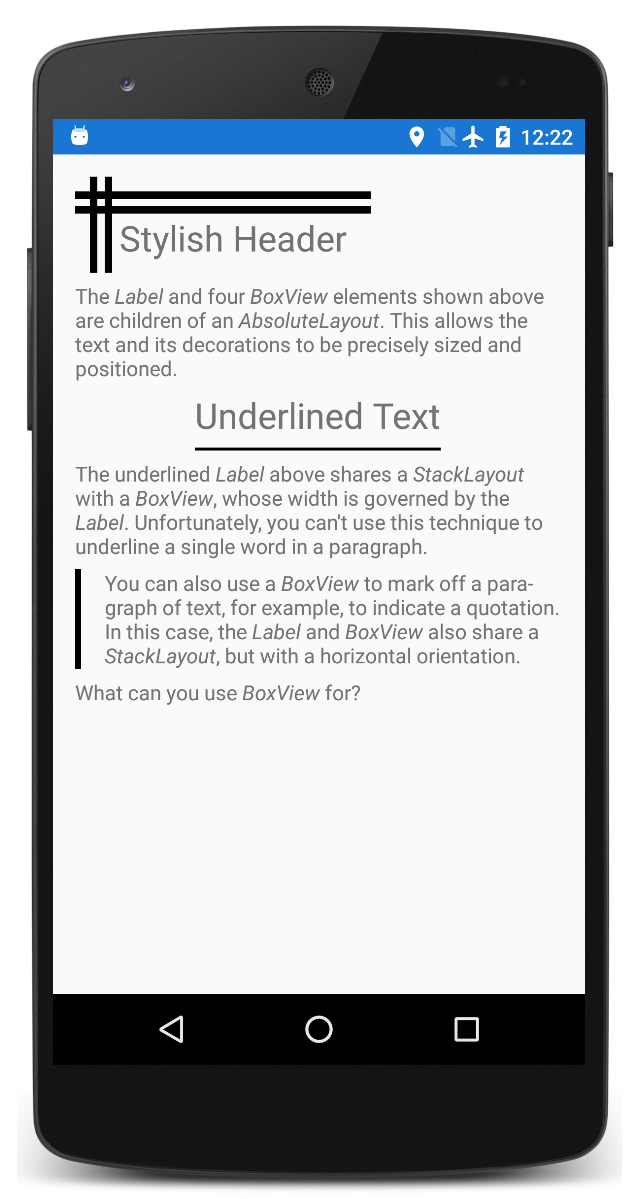
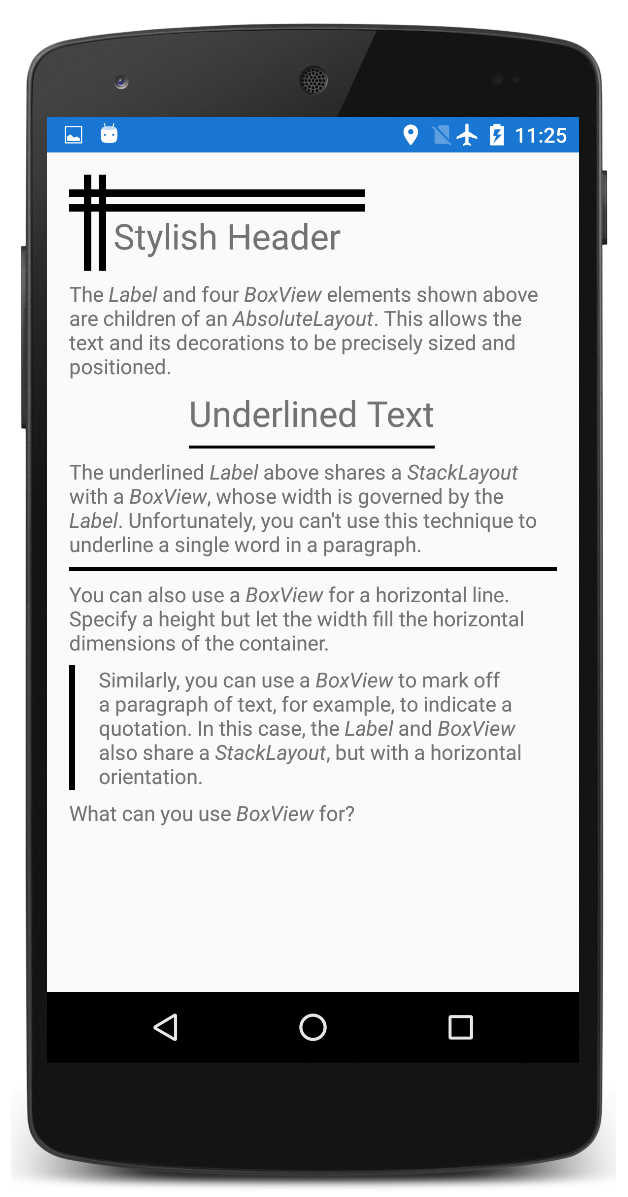
[TextDecoration] Enhanced with horizontal line

diff --git a/BoxView/TextDecoration/TextDecoration/TextDecoration/MainPage.xaml b/BoxView/TextDecoration/TextDecoration/TextDecoration/MainPage.xaml
@@ -72,13 +72,26 @@
                 </Label.FormattedText>
             </Label>
 
+            <BoxView HeightRequest="3" />
+
+            <Label>
+                <Label.FormattedText>
+                    <FormattedString>
+                        <Span Text="You can also use a " />
+                        <Span Text="BoxView"
+                                  FontAttributes="Italic" />
+                        <Span Text=" for a horizontal line. Specify a height but let the width fill the horizontal dimensions of the container." />
+                    </FormattedString>
+                </Label.FormattedText>
+            </Label>
+
             <StackLayout Orientation="Horizontal">
                 <BoxView WidthRequest="4"
                          Margin="0, 0, 10, 0" />
                 <Label>
                     <Label.FormattedText>
                         <FormattedString>
-                            <Span Text="You can also use a " />
+                            <Span Text="Similarly, you can use a " />
                             <Span Text="BoxView"
                                   FontAttributes="Italic" />
                             <Span Text=" to mark off a paragraph of text, for example, to indicate a quotation. In this case, the " />
